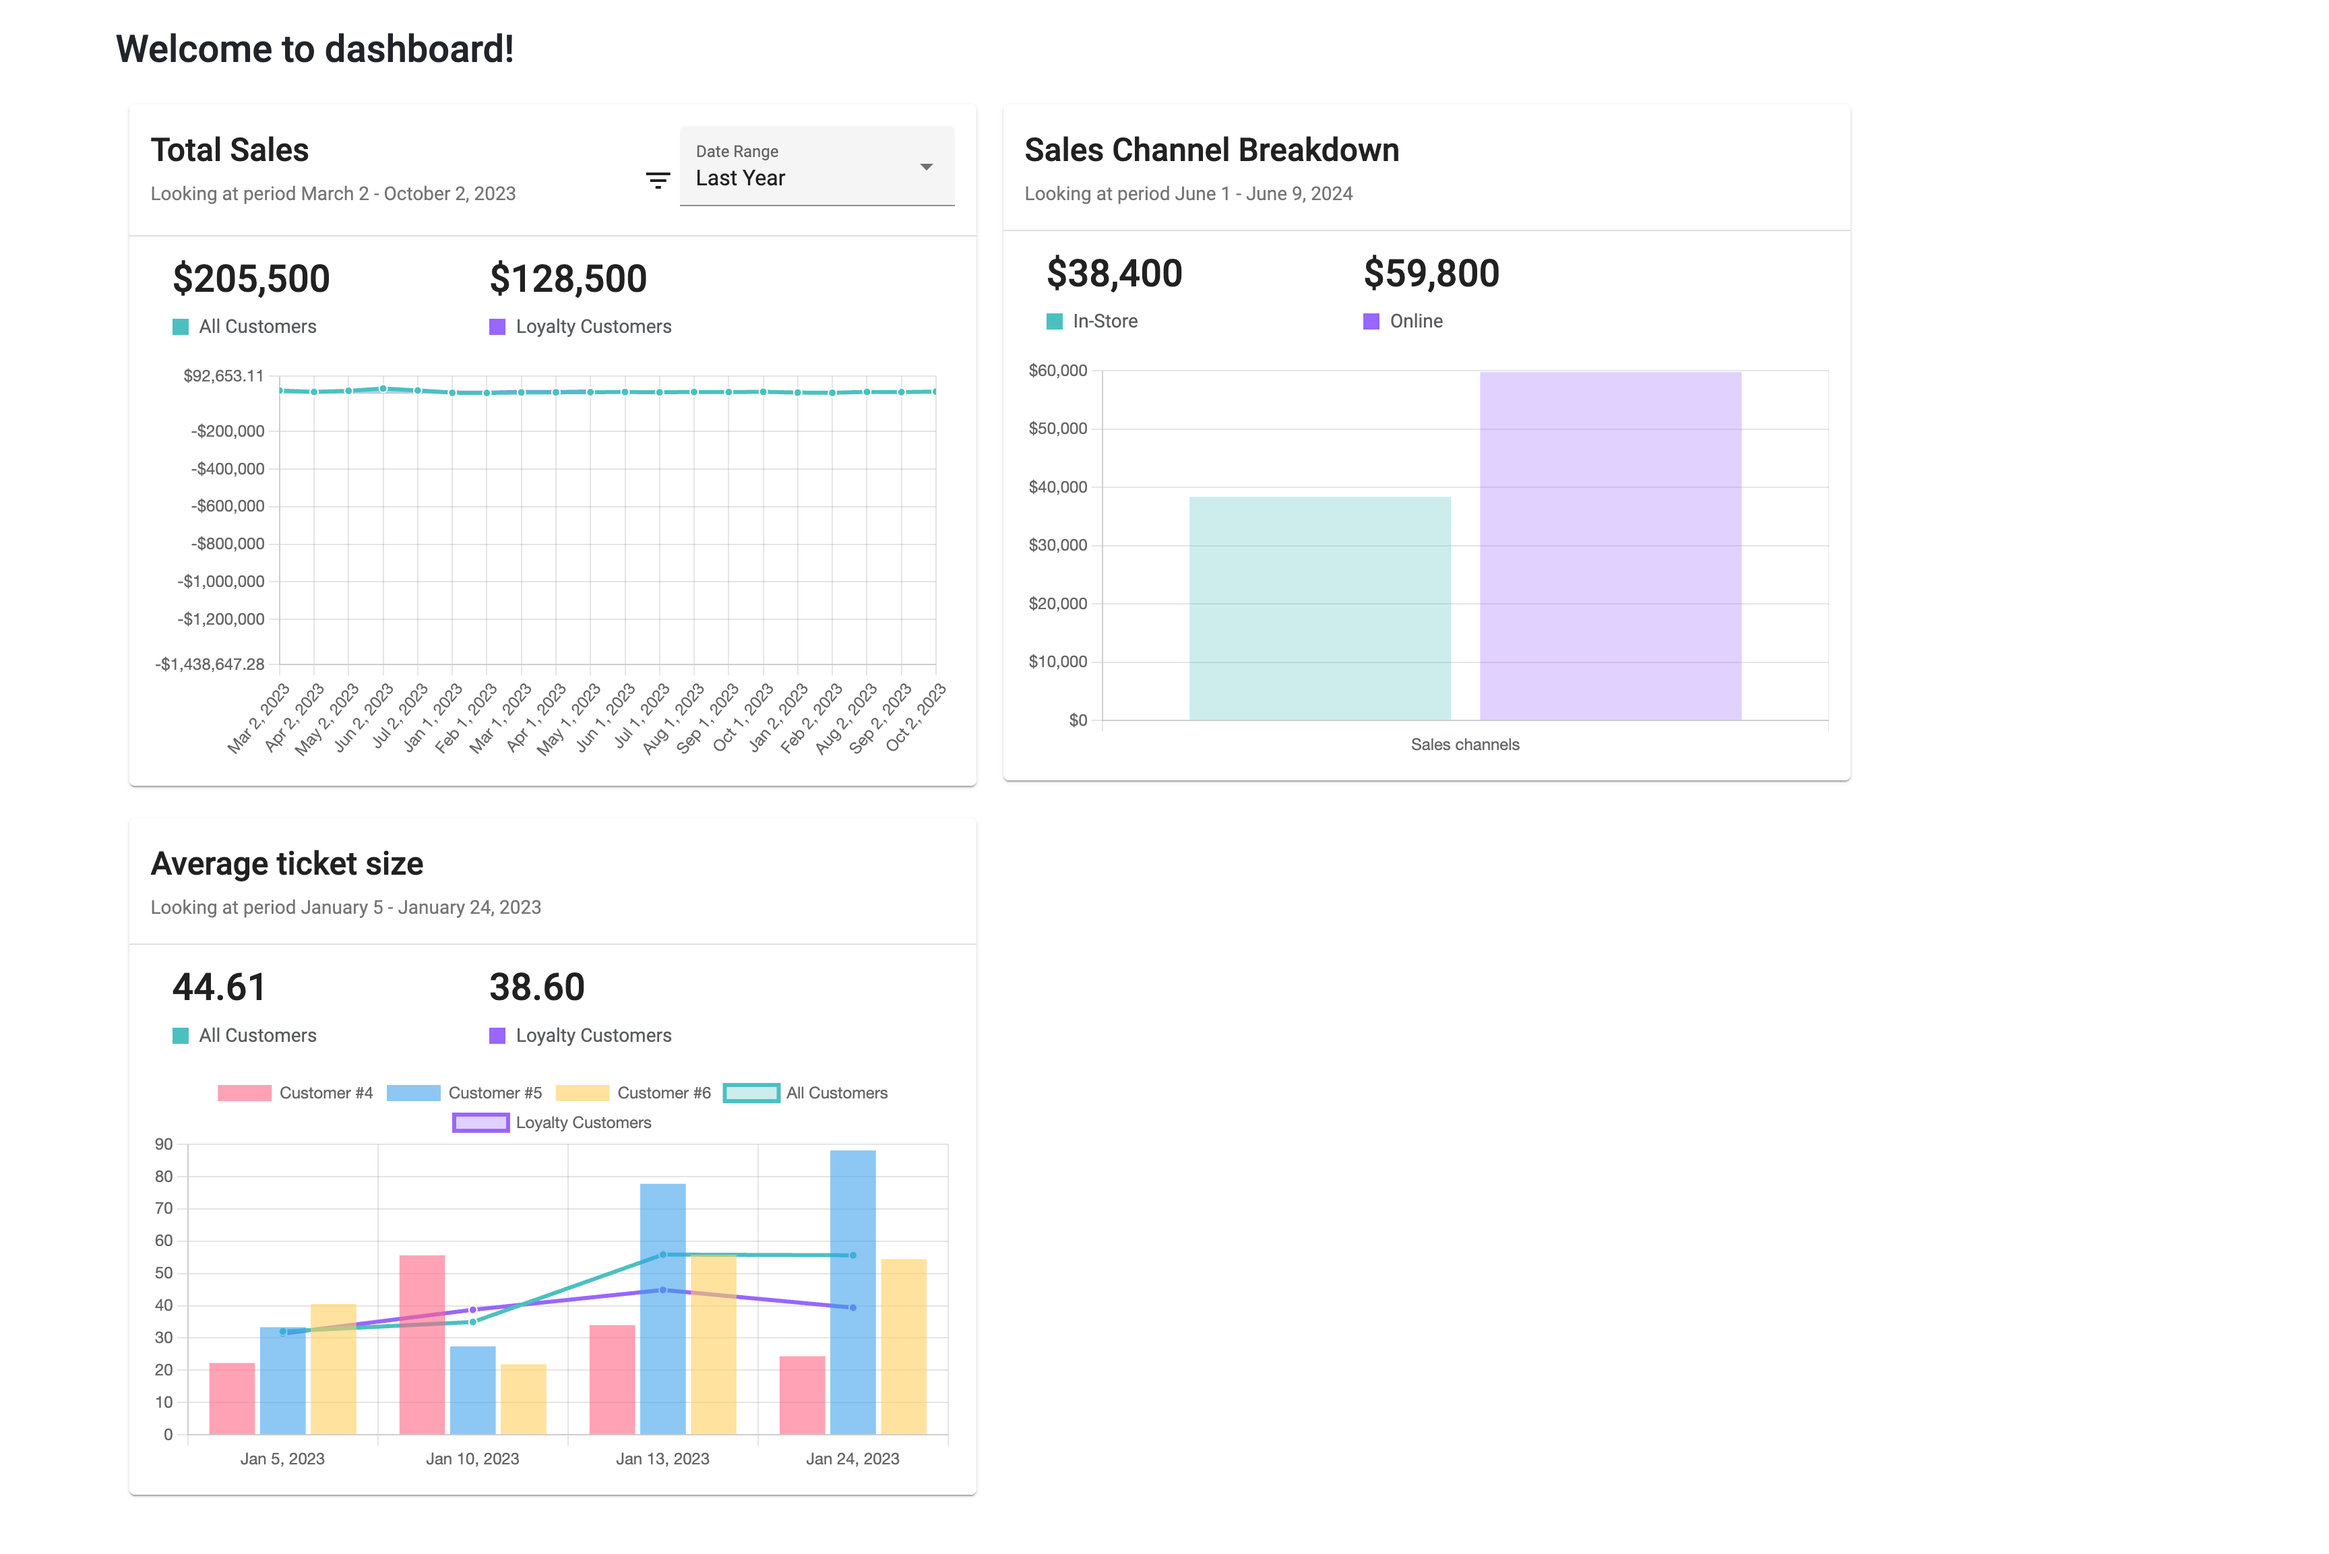
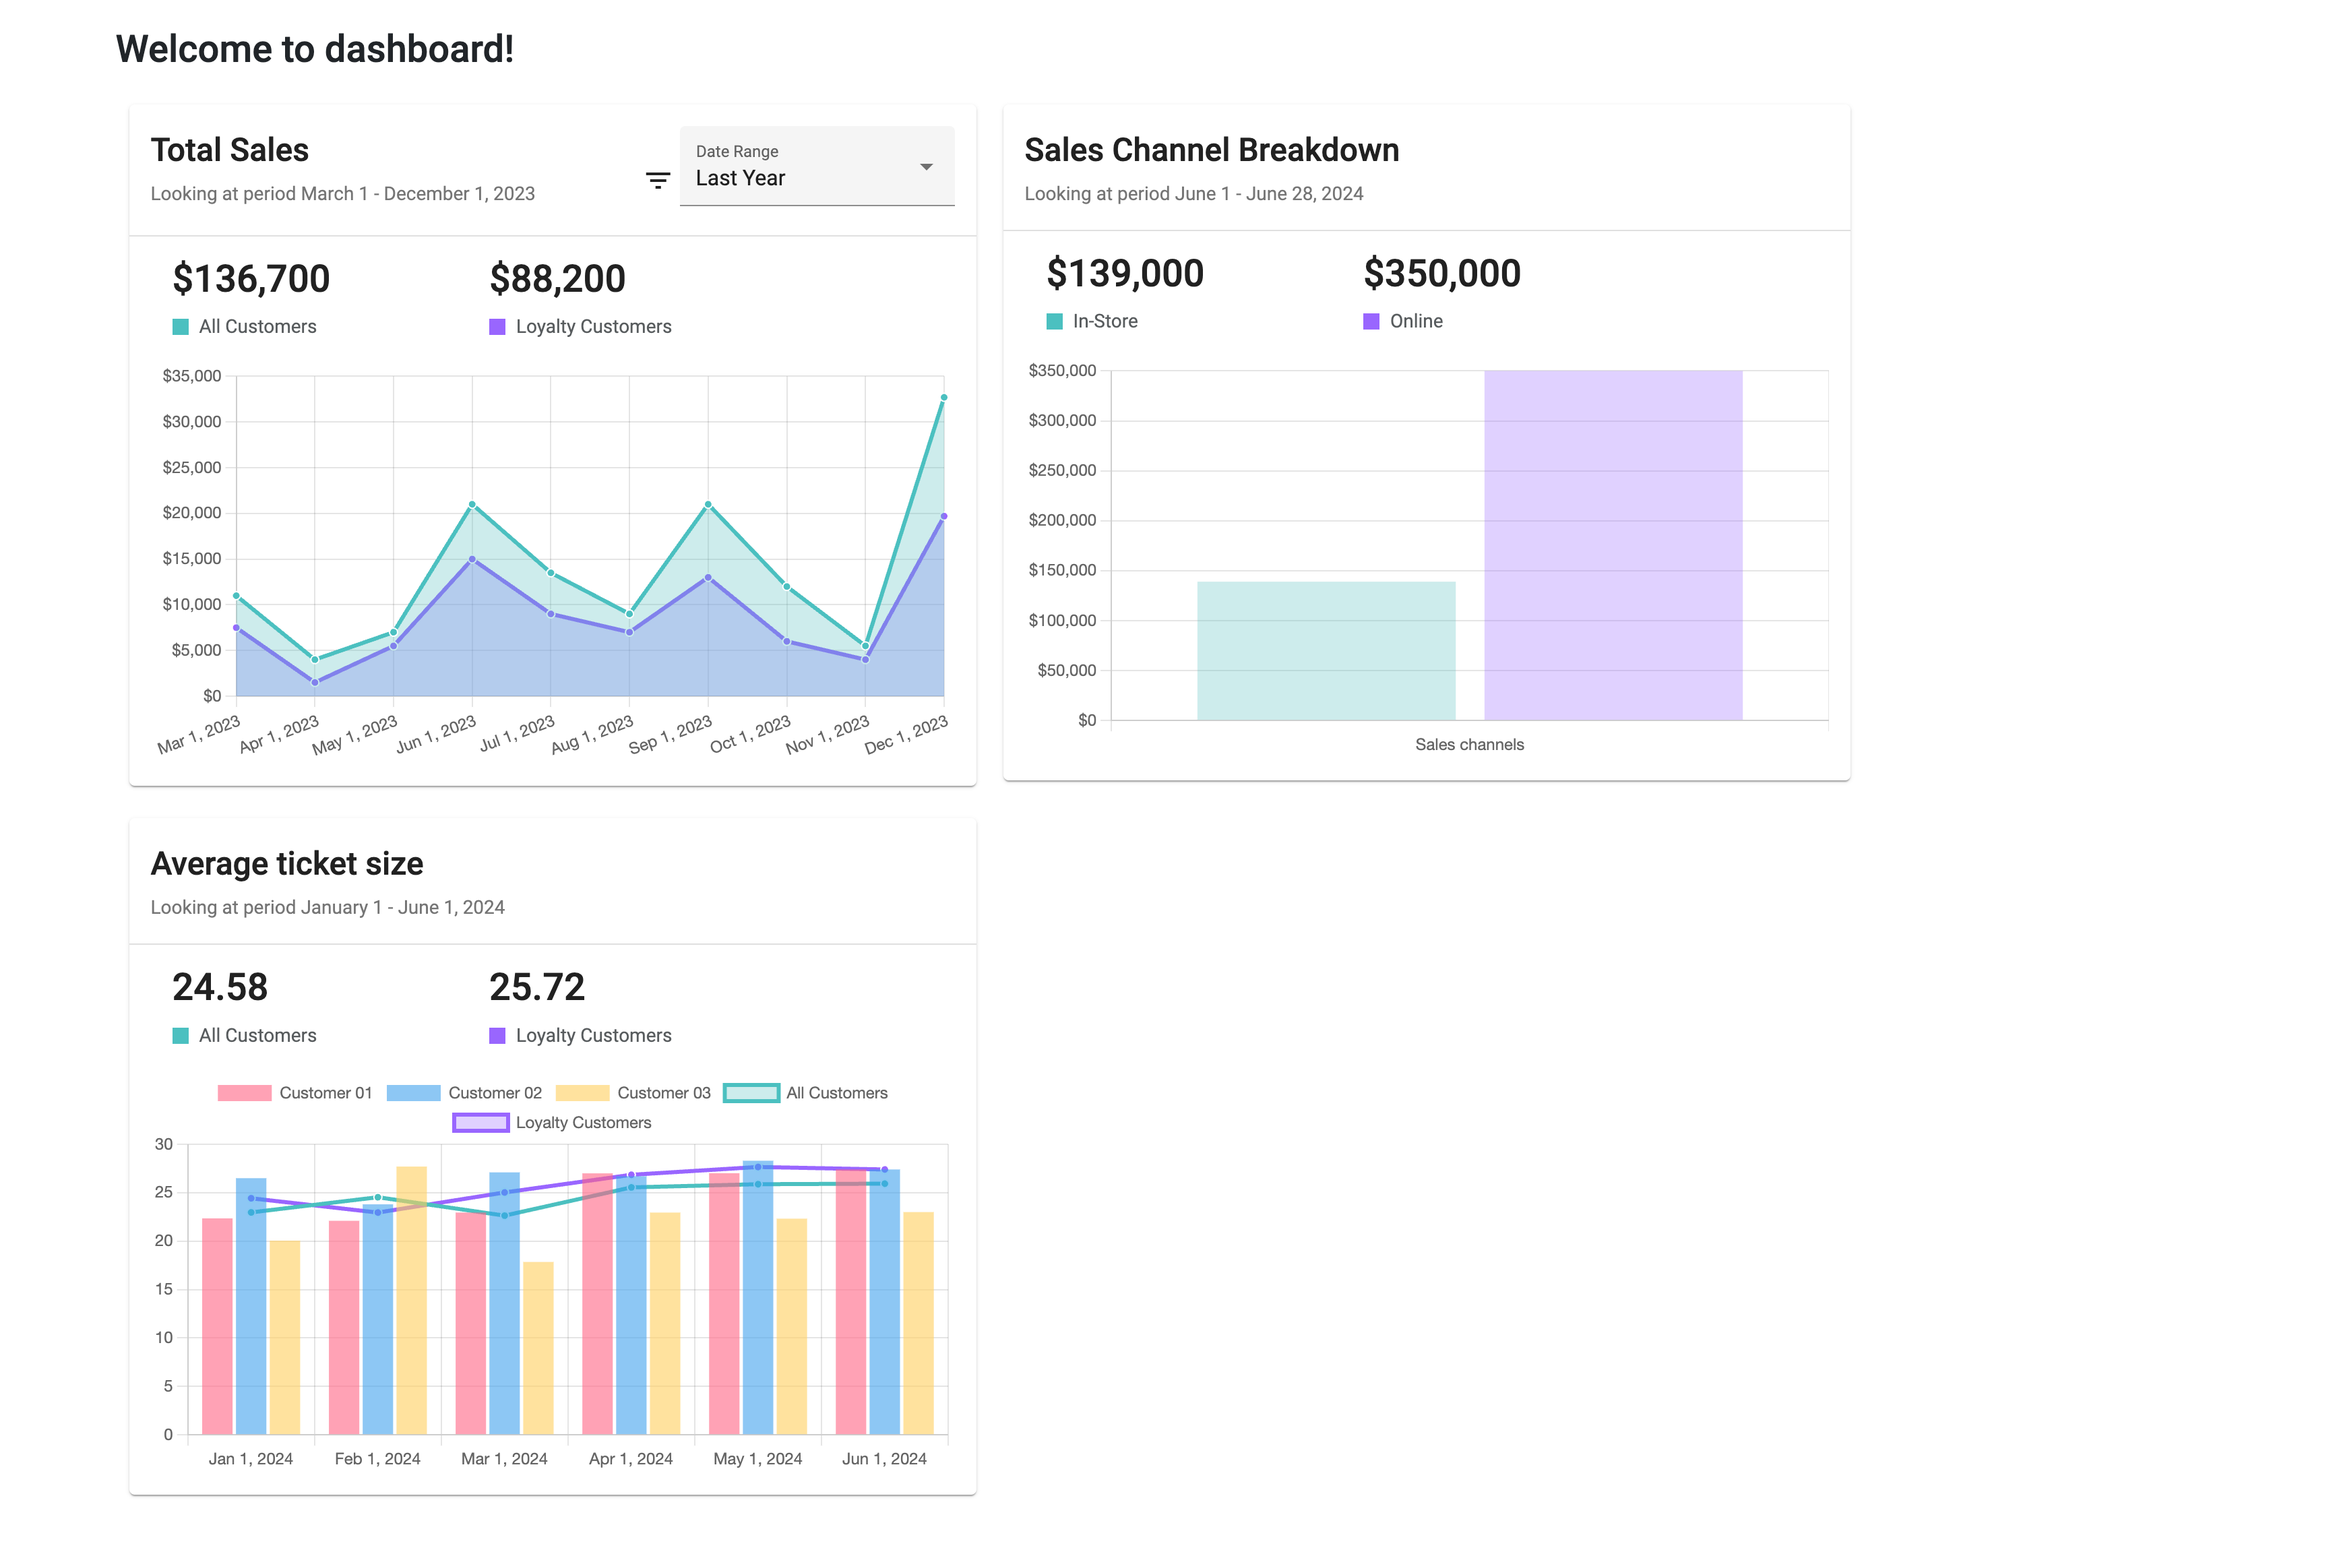
Update README and screenshot dashboard

diff --git a/src/app/services/dashboard-data.service.ts b/src/app/services/dashboard-data.service.ts
@@ -1,6 +1,6 @@
 import { Injectable } from '@angular/core';
 import { Observable, of } from 'rxjs';
-import { DATA2 } from '../data/mock-data';
+import { DATA } from '../data/mock-data';
 import {Customer, Sales, Ticket } from './dashboard-data-interface';
 
 @Injectable({
@@ -11,14 +11,14 @@ export class DashboardDataService {
   constructor() { }
 
   getSalesData(): Observable<Sales[]> {
-    return of(DATA2.sales)
+    return of(DATA.sales)
   }
 
   getCustomersData(): Observable<Customer[]> {
-    return of(DATA2.customers)
+    return of(DATA.customers)
   }
 
   getTicketsData(): Observable<Ticket[]> {
-    return of(DATA2.tickets)
+    return of(DATA.tickets)
   }
 }
